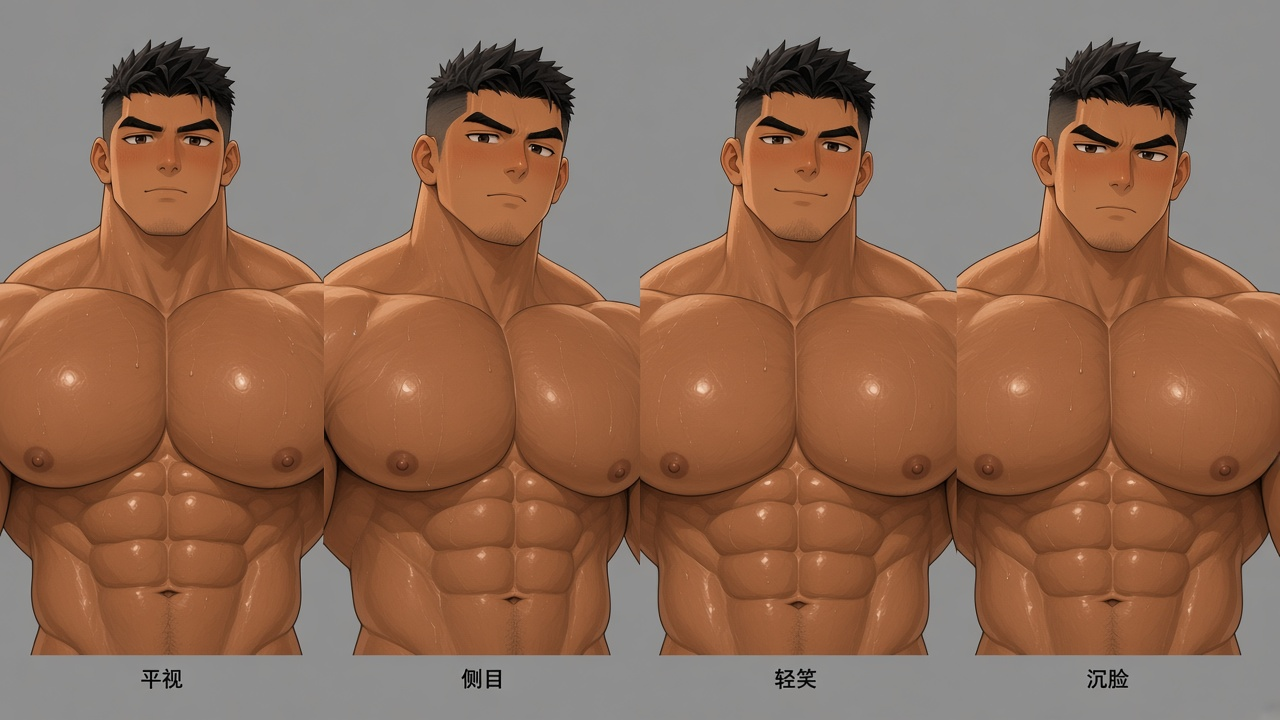
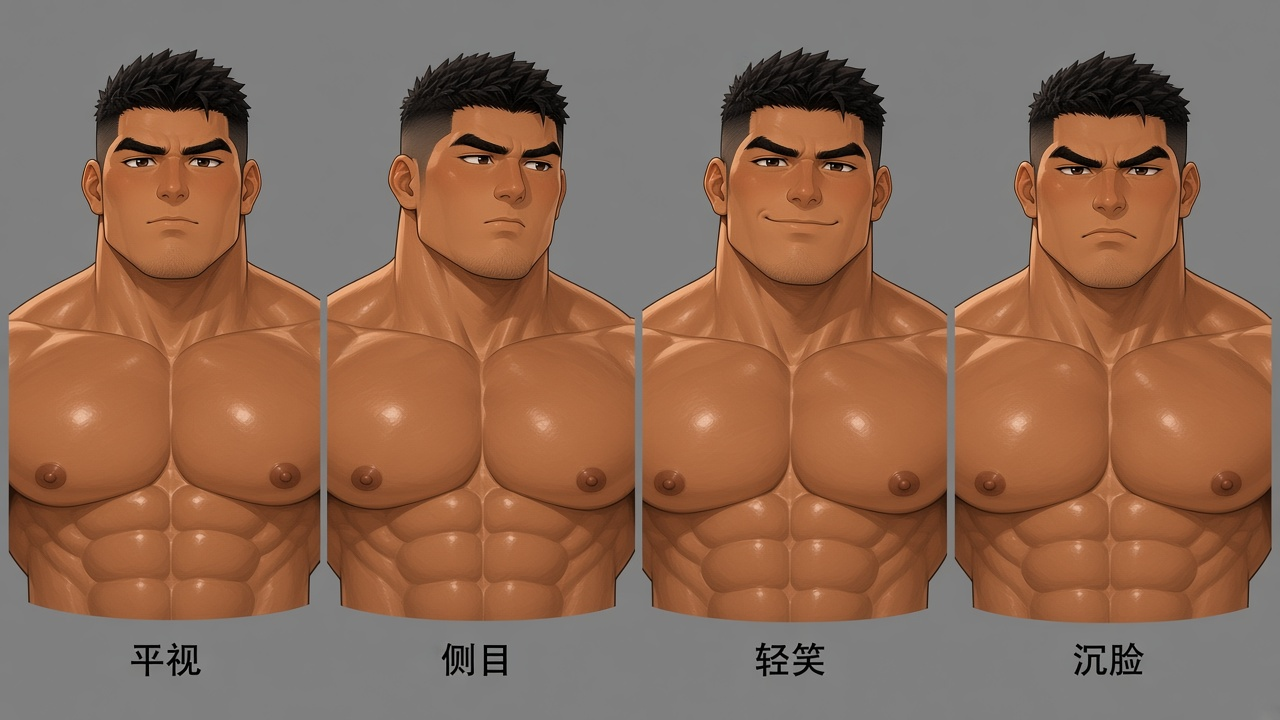
fix: 身材改回选定比例，脸改宽改厚
全身按用户选定的高个子和合理胸围，头部特写与转面把瘦长脸改成宽脸厚下颌。

diff --git a/漫画分镜/多角度设定/设定说明.md b/漫画分镜/多角度设定/设定说明.md
@@ -1,11 +1,11 @@
 # 多角度设定
 
-依据 `剧情画本/ComfyUI_temp_csgbr_00010_.png` 的正面。上一版偏矮、胸偏小，这一版把身高拉长、腿拉长，胸按原图的圆度和体积重画。下身用平黑短裤，方便看清腿和背面。
+身材按用户选定的那张正面全身：高、腿长、胸大但不过分鼓成球。脸按原图改宽改厚：脸颊满、下颌厚、不是瘦长脸。下身用平黑短裤。
 
 ## 识别点
 
-- 脸：短碎发，两侧渐薄，眉骨重，眼窄，常往侧边看，鼻梁宽，下颌方，下巴和上唇一层薄胡茬。
-- 体：高，腿长于上身。胸又圆又大，单侧比头还宽，向前鼓出。肩极宽，腰相对胸更收。不是矮胖。
+- 脸：短碎发，两侧渐薄，眉骨重，眼窄，常往侧边看。脸短而宽，脸颊有肉，下颌厚，下巴和上唇一层薄胡茬。
+- 体：高，腿长。胸大而合理，肩宽，腹肌清楚，腰相对胸更收。不是矮胖，胸也不做成比头还大的球形。
 - 肤色：暖小麦色。
 
 ## 图
